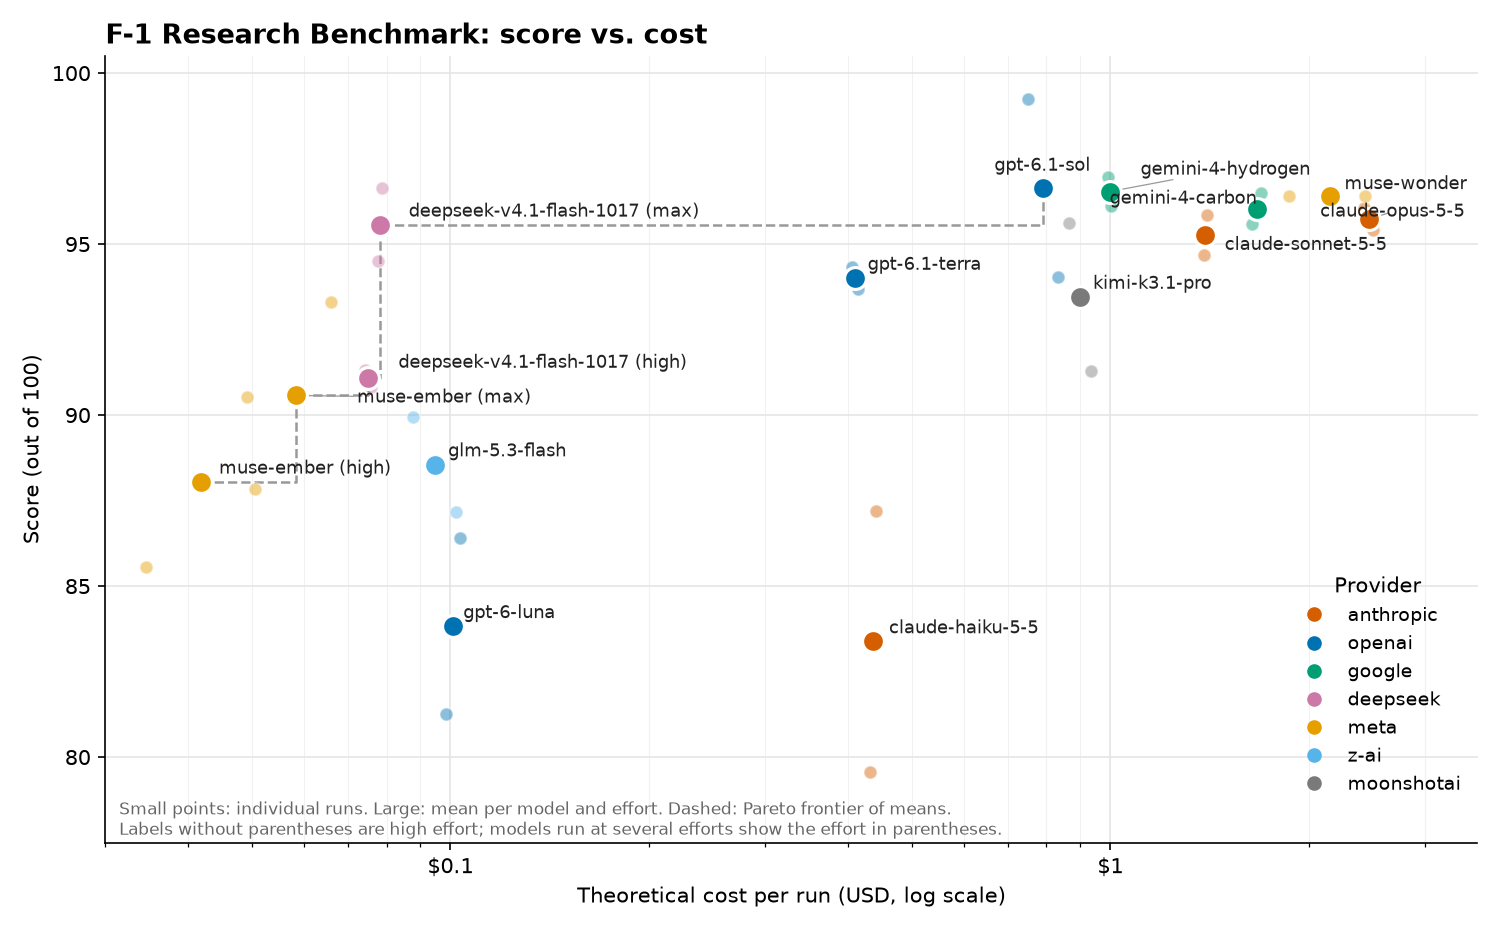
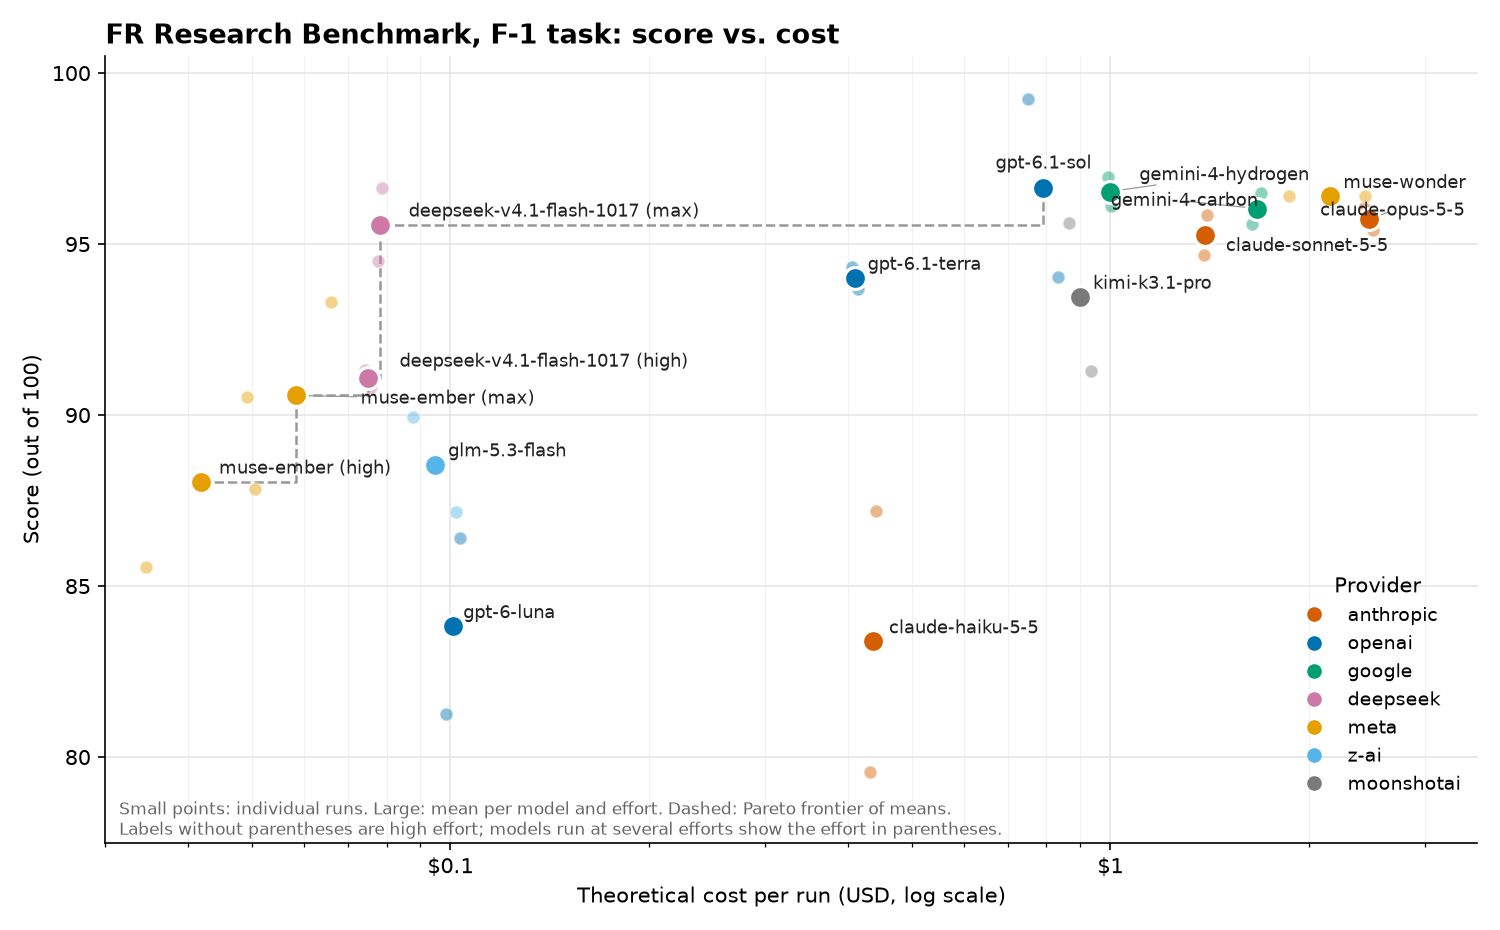
Rename to FR Research Benchmark and document per-task analysis
Reword the README and CLAUDE.md for the three-task benchmark, show all three
cost-vs-score plots, and retitle the plots.

Claude-Session: https://claude.ai/code/session_01UYvC1gM9511K7Wsm6udWGK

diff --git a/analysis/plot_cost_vs_score.py b/analysis/plot_cost_vs_score.py
@@ -83,7 +83,7 @@ else:
     ax.set_xlim(df.theoretical_cost_usd.min() * 0.7, df.theoretical_cost_usd.max() * 1.6)
 ax.set_xlabel("Theoretical cost per run (USD, log scale)")
 ax.set_ylabel("Score (out of 100)")
-ax.set_title(f"{TITLES.get(TASK, TASK)} Research Benchmark: score vs. cost", loc="left", fontsize=13, weight="bold")
+ax.set_title(f"FR Research Benchmark, {TITLES.get(TASK, TASK)} task: score vs. cost", loc="left", fontsize=13, weight="bold")
 ax.grid(True, which="major", color="#e5e5e5", lw=0.8, zorder=0)
 ax.grid(True, which="minor", axis="x", color="#f1f1f1", lw=0.5, zorder=0)
 for s in ("top", "right"):

diff --git a/README.md b/README.md
@@ -1,30 +1,40 @@
-# F-1 Research Benchmark
+# FR Research Benchmark
 
-A benchmark for LLM agents doing policy research on the U.S. Federal Register. The agent plays a researcher at a university international student office. Its job is to answer 16 questions about the DHS final rule that ended "duration of status" (D/S) admission for F-1 students. The questions cover the rule's text and the proposed rules, notices and presidential documents around it. The agent gets only Federal Register search and reading tools, and its answers are graded against a confidential answer key.
+A benchmark for LLM agents doing policy research on the U.S. Federal Register. Each task casts the agent as a researcher at an organization that needs answers about a set of 2026 federal actions. The agent gets only Federal Register search and reading tools, and its answers are graded against a confidential answer key by a second LLM agent.
 
-The task states the world as of **November 14, 2026**. The 16 questions are worth 100 points in total.
-
-Two more tasks use the same harness, tools, corpus and reference date. Each is worth 100 points:
+All tasks share one harness, one frozen corpus of Federal Register documents, and one reference date, **November 14, 2026**. Each task is worth 100 points:
 
 | Task | Folder | Role and subject | Questions |
 |---|---|---|---|
-| F-1 | `tasks/f1/` (default) | International student office; the DHS rule ending duration of status | 16 |
+| F-1 | `tasks/f1/` (default) | International student office; the DHS final rule ending "duration of status" for F-1 students, with the proposed rules, notices and presidential documents around it | 16 |
 | Tariffs | `tasks/tariffs/` | Customs broker's researcher; the 2026 section 338 duties and import exclusions on Canadian products, the July 2026 section 301 forced-labor tariffs, and how both interact with section 232 and earlier duties | 15 |
 | RIF | `tasks/rif/` | Federal HR office researcher; OPM's 2026 rewrite of the reduction in force rules (5 CFR part 351), its corrections, the RIF appeals rule and related rules | 14 |
 
-The two newer tasks rest on policy changes made in 2026, so they cannot be answered from memory. They lean on what separated models on the F-1 task: computations that chain several provisions across documents, places where a preamble or recital says something different from the operative text, reviews of a worked file with planted errors and sound steps, exhaustive comparisons with a count ladder, and passages with no keyword handle.
+The tasks rest on policy changes made in 2026, so they cannot be answered from memory. The Tariffs and RIF tasks lean on what separated models on the F-1 task: computations that chain several provisions across documents, places where a preamble or recital says something different from the operative text, reviews of a worked file with planted errors and sound steps, exhaustive comparisons with a count ladder, and passages with no keyword handle.
 
 ## What it tests
 
 - Finding the governing documents in a large corpus, and reading long regulatory text closely.
-- Applying rule provisions to concrete student scenarios, with date arithmetic shown.
+- Applying rule provisions to concrete scenarios, with date and rate arithmetic shown.
 - Telling the kinds of authority apart: final rule text, preamble, commenters, proposed rules and presidential documents.
 - Flagging gaps honestly where the text is silent. TASK.md says a confident unsupported answer is worse than a flagged gap.
 - Avoiding stale or wrong sources. Some pending proposals look relevant but are not in force.
 
 ## Results
 
-![Cost vs score](analysis/cost_vs_score.png)
+Score against theoretical cost per run (log scale), one plot per task. Small points are individual runs, large points are the mean per model and effort, and the dashed line is the Pareto frontier of the means. Models far below the rest are left off the plot and named in its footnote. The per-model numbers are in `analysis/<task>/model_summary.csv`.
+
+### F-1
+
+![F-1: cost vs score](analysis/f1/cost_vs_score.png)
+
+### Tariffs
+
+![Tariffs: cost vs score](analysis/tariffs/cost_vs_score.png)
+
+### RIF
+
+![RIF: cost vs score](analysis/rif/cost_vs_score.png)
 
 ## Layout
 
@@ -40,9 +50,10 @@ The two newer tasks rest on policy changes made in 2026, so they cannot be answe
 | `harness_common.py` | Shared code: the agent loop (OpenAI Responses API), the FR function tools, transcript recording. |
 | `fr_tool.py` | The Federal Register search/read tool (`search`, `doc`, `toc`, `text`, `grep`). Standard library only. |
 | `corpus/` | Frozen snapshot of the documents (`<doc-number>.txt` plus `.json` metadata), shared by all tasks. |
-| `analysis/pricing.csv` | Per-model token prices (USD per 1M tokens), by context tier. |
-| `analysis/theoretical_cost.py` | Computes each run's theoretical cost from its transcript and `pricing.csv`; writes `analysis/runs_theoretical_cost.csv`. |
-| `analysis/` | `plot_cost_vs_score.py` plots score against cost; outputs `cost_vs_score.png` and `model_summary.csv`. |
+| `analysis/pricing.csv` | Per-model token prices (USD per 1M tokens), by context tier. Shared by all tasks. |
+| `analysis/theoretical_cost.py` | Computes each run's theoretical cost from its transcript and `pricing.csv`; writes `analysis/<task>/runs_theoretical_cost.csv`. |
+| `analysis/plot_cost_vs_score.py` | Plots score against cost; writes `analysis/<task>/cost_vs_score.png` and `model_summary.csv`. |
+| `analysis/<task>/` | Cost and plot outputs for `f1`, `tariffs` and `rif`. |
 
 ## Setup
 
@@ -104,11 +115,11 @@ Grader outputs go to `<run>/grades/<grade-id>/` (or `--out`): `transcript.json`,
 ## Cost and analysis
 
 ```bash
-uv run analysis/theoretical_cost.py      # writes analysis/runs_theoretical_cost.csv
-uv run analysis/plot_cost_vs_score.py    # writes analysis/cost_vs_score.png and model_summary.csv
+uv run analysis/theoretical_cost.py [task]     # writes analysis/<task>/runs_theoretical_cost.csv
+uv run analysis/plot_cost_vs_score.py [task]   # writes analysis/<task>/cost_vs_score.png and model_summary.csv
 ```
 
-Both scripts read the F-1 runs in `tasks/f1/runs/` only. Theoretical cost assumes every cacheable token is a cache hit and every new token (user prompt, tool results) is a miss. Prices come from `pricing.csv`, with context-size tiers where a provider has them.
+`task` is a folder under `tasks/` (default `f1`); each script reads that task's runs in `tasks/<task>/runs/`. Run the cost script first. For a run with several grades the plot uses the latest. Theoretical cost assumes every cacheable token is a cache hit and every new token (user prompt, tool results) is a miss. Prices come from `pricing.csv`, with context-size tiers where a provider has them.
 
 ## The Federal Register tools
 
@@ -203,7 +214,7 @@ RIF task (`tasks/rif/`):
 
 In both newer tasks the early questions come from drafts that two inexpensive models answered almost perfectly. They keep their criteria at a reduced weight through `criteria_points`; most of the points sit in questions with no fixed number of answers, where the agent must find discrepancies on its own and is scored on a count ladder against a verified list.
 
-Q13–Q16 were added after the first round of runs showed Q1–Q12 close to saturated for the strongest models. Q1–Q12 keep their original criteria and internal point split. Each carries `criteria_points` in `rubric.toml`, and `grader.py` scales its credits, caps and penalties to the weight above.
+In the F-1 task, Q13–Q16 were added after the first round of runs showed Q1–Q12 close to saturated for the strongest models. Q1–Q12 keep their original criteria and internal point split. Each carries `criteria_points` in `rubric.toml`, and `grader.py` scales its credits, caps and penalties to the weight above.
 
 ## Notes for maintainers
 

diff --git a/CLAUDE.md b/CLAUDE.md
@@ -4,7 +4,7 @@ This file provides guidance to Claude Code (claude.ai/code) when working with co
 
 ## What this is
 
-A benchmark for LLM agents doing policy research over a frozen snapshot of Federal Register documents about the DHS final rule ending "duration of status" for F-1 students. The agent under test answers 16 questions (Q1–Q16, 100 points) in `tasks/f1/TASK.md` using only Federal Register tools; a second LLM agent (the grader) scores the answer against a confidential key. The task is set as of 2026-11-14. Two further tasks share the harness, tools, corpus and date: `tasks/tariffs/` (15 questions on the 2026 section 338 actions against Canada and the section 301 forced-labor tariffs) and `tasks/rif/` (14 questions on OPM's 2026 reduction in force rules). See `README.md` for the full flag tables and the per-question point tables.
+The FR Research Benchmark: LLM agents do policy research over a frozen snapshot of Federal Register documents, using only Federal Register tools, and a second LLM agent (the grader) scores each answer against a confidential key. There are three tasks, all set as of 2026-11-14 and worth 100 points: `tasks/f1/` (the default; 16 questions, Q1–Q16, on the DHS final rule ending "duration of status" for F-1 students), `tasks/tariffs/` (15 questions on the 2026 section 338 actions against Canada and the section 301 forced-labor tariffs) and `tasks/rif/` (14 questions on OPM's 2026 reduction in force rules). They share the harness, tools, corpus and date. See `README.md` for the full flag tables and the per-question point tables.
 
 There is no test suite or linter. Python 3.13+, managed with `uv`.
 
@@ -18,8 +18,8 @@ uv run grader.py tasks/f1/runs/<run-id> --model <grader-model> --effort high   #
 uv run grader.py --answer file.md --task f1 --model <grader-model>   # grade an arbitrary Markdown answer
 uv run grader.py --rescore tasks/f1/runs/<run-id>/grades/<grade-id>  # recompute points from saved verdicts (no LLM call)
 uv run fr_tool.py grep 2026-14439 "within 5 months" --context 3   # tools also work as a CLI (search/doc/toc/text/grep)
-uv run analysis/theoretical_cost.py                        # writes analysis/runs_theoretical_cost.csv from pricing.csv + the F-1 run transcripts
-uv run analysis/plot_cost_vs_score.py                      # cost vs. score plot in analysis/
+uv run analysis/theoretical_cost.py [task]                 # writes analysis/<task>/runs_theoretical_cost.csv from pricing.csv + that task's run transcripts (default f1)
+uv run analysis/plot_cost_vs_score.py [task]               # cost vs. score plot and model_summary.csv in analysis/<task>/
 ```
 
 `.env` needs `OPENAI_API_KEY`; `OPENAI_BASE_URL` (the code uses the OpenAI Responses API, pointed at other providers via a base URL, with model IDs like `anthropic/claude-sonnet-5-5`) and `FR_TOOL_CACHE` are optional.
